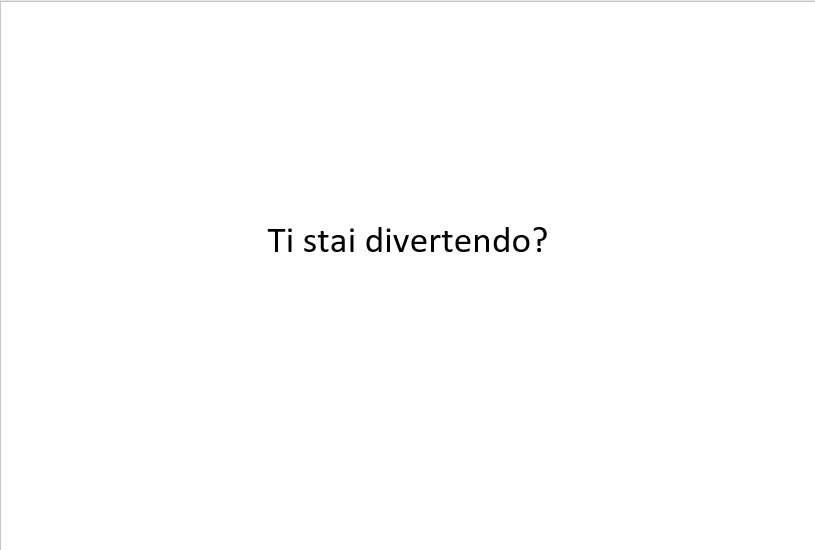
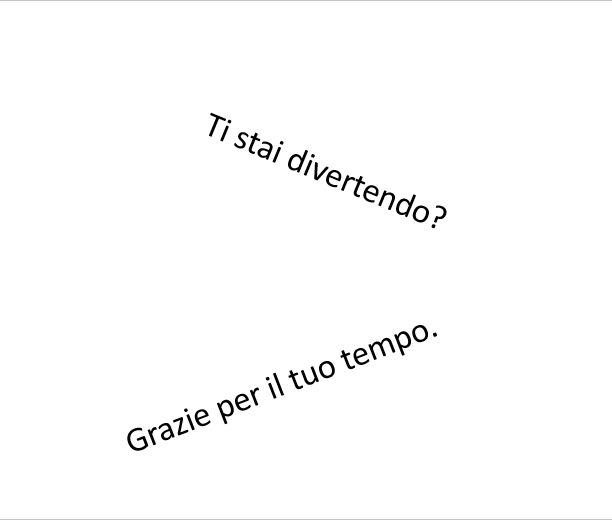
Detect angled text

diff --git a/run_attention_from_image.py b/run_attention_from_image.py
@@ -45,6 +45,7 @@ def maskOrig(fullTxt, k1, k2, all_recog_text, all_orig_text,all_bx, orig ):
     # Translate the merged text
 	textTranslated_mul = translate_sent(fullTxt, encoder, onestepdecoder, inp_lang, targ_lang, max_length_inp, max_length_targ)
 	textTranslated_mul = textTranslated_mul.strip()
+	#print(textTranslated_mul)
     
     # Get the percentages of the recognized text line size
 	percent_size = []
@@ -63,17 +64,18 @@ def maskOrig(fullTxt, k1, k2, all_recog_text, all_orig_text,all_bx, orig ):
 			multi_lines.append(rem_text)
 		rem_text = rem_text[cutLen: ]
     
-	#print(multi_lines)
 	for sub in range(1,len(multi_lines)):
 		if multi_lines[sub][0] != ' ':
 			multi_lines[sub-1] = multi_lines[sub-1] + multi_lines[sub].split(" ")[0]
 			multi_lines[sub] = multi_lines[sub].replace(multi_lines[sub].split(" ")[0],"",1)
-            
+      
     # Move each the splited text to orignal image space
 	for lnNo, tLine in enumerate(multi_lines):
+        
+		tLine = tLine.strip()
                     
         # Get the size of text line
-		(text_width, text_height) = cv2.getTextSize(tLine, cv2.FONT_HERSHEY_COMPLEX_SMALL, 0.9, 1)[0]
+		(text_width, text_height) = cv2.getTextSize(tLine, cv2.FONT_HERSHEY_COMPLEX_SMALL, 1, 1)[0]
         
         # Create three masks of same size of the text line
 		mask = np.zeros((text_height+15, text_width+50), dtype=np.uint8)
@@ -90,25 +92,49 @@ def maskOrig(fullTxt, k1, k2, all_recog_text, all_orig_text,all_bx, orig ):
 		mask2[:,:] = brg[2]
         # Merge the mask values
 		mer_mask = cv2.merge((mask, mask1, mask2))
-		o_startX, o_startY, o_endX, o_endY = all_bx[k1:k2+1][lnNo]
+		o_startX, o_startY, o_endX, o_endY, o_angle, o_an_h = all_bx[k1:k2+1][lnNo]
         
         # Create blank mask of same text recognized shape
 		bnk_masked = cv2.resize(mer_mask, (o_endX-o_startX+2*boundary, o_endY-o_startY+2*boundary))
+		bnk_masked1 = cv2.resize(mer_mask, (o_endX-o_startX+2*boundary, o_endY-o_startY+2*boundary))
 
         # Write the translated text to the mask
 		line_mask = cv2.putText(mer_mask, tLine , (0, 15), cv2.FONT_HERSHEY_COMPLEX_SMALL, 1, (0,0,0), 1, cv2.LINE_AA)
         
         # Resize the mask to the original recognized text size
-		new_y = o_endY-o_startY
-		new_X = math.ceil(((new_y *text_width)/text_height)*0.6)
-		line_mask = cv2.resize(line_mask, (new_X, new_y))
+		if o_angle != 0:
+            # If its a angled text then first resize the masked text to the same size as whole rect around this angled text
+			(h_,w_)=bnk_masked1.shape[:2]
+			o_an_h = math.ceil(o_an_h/2)*2
+			line_mask = cv2.resize(line_mask, (w_-10, o_an_h))
+            # Move the masked text to the rect
+			bnk_masked1[(h_//2)-o_an_h//2:(h_//2)+o_an_h//2, 5:w_-5] = line_mask
+            # Rotate the rect to the opposite direction to the translated text in same angled as in recognized text
+			bnk_masked1_nt = cv2.bitwise_not(bnk_masked1)
+			(h_, w_) = bnk_masked1_nt.shape[:2]
+			center = (w_ // 2, h_ // 2)
+			M = cv2.getRotationMatrix2D(center, -o_angle, 1.0)
+			rotated = cv2.warpAffine(bnk_masked1, M, (w_, h_),flags=cv2.INTER_CUBIC, borderMode=cv2.BORDER_REPLICATE)
 
-        # Replace the original text location with the new translated text
-		try:
-			orig[o_startY-boundary:o_endY+boundary, o_startX-boundary:o_endX+boundary] = bnk_masked						    
-			orig[o_startY:o_endY, o_startX:o_startX+new_X] = line_mask
-		except:
-			continue
+            # Replace the original text location with the new translated text
+			try:
+				orig[o_startY-boundary:o_endY+boundary, o_startX-boundary:o_endX+boundary] = bnk_masked						    
+				orig[o_startY-boundary:o_endY+boundary, o_startX-boundary:o_endX+boundary] = rotated
+            
+			except:
+				continue
+            
+		else:
+            # Replace the original text location with the new translated text
+			line_mask = cv2.resize(line_mask, (o_endX-o_startX, o_endY-o_startY))
+
+			try:
+
+				orig[o_startY-boundary:o_endY+boundary, o_startX-boundary:o_endX+boundary] = bnk_masked		
+				orig[o_startY:o_endY, o_startX:o_endX] = line_mask
+			except:
+
+				continue
 	return orig
 
 
@@ -126,7 +152,7 @@ ind = 0
 
 #while cv2.waitKey(1) < 0:
 #while (cap.isOpened()):
-while (cv2.waitKey(5000) != ord('q') and ind<tot_file):
+while (cv2.waitKey(1000) != ord('q') and ind<tot_file):
 
     
     # read images one by one
@@ -201,44 +227,105 @@ while (cv2.waitKey(5000) != ord('q') and ind<tot_file):
 
 			# compute both the starting and ending (x, y)-coordinates for
 			# the text prediction bounding box
-			endX = int(offsetX + (cos * xData1[x]) + (sin * xData2[x]))
-			endY = int(offsetY - (sin * xData1[x]) + (cos * xData2[x]))
-			startX = int(endX - w)
-			startY = int(endY - h)
-
-			# add the bounding box coordinates and probability score to
-			# our respective lists
-			rects.append((startX, startY, endX, endY))
+			offsetX = offsetX + cos * xData1[x] + sin * xData2[x] 
+			offsetY = offsetY - sin * xData1[x] + cos * xData2[x]                
+        
+			# calculate the UL and LR corners of the bounding rectangle
+			p1x = -cos * w + offsetX
+			p1y = -cos * h + offsetY
+			p3x = -sin * h + offsetX
+			p3y = sin * w + offsetY
+                           
+			# add the bounding box coordinates
+			rects.append((p1x, p1y, p3x, p3y))
+            
 			confidences.append(scoresData[x])
 
     # Get the boundaries where word may present
 	boxes = non_max_suppression(np.array(rects), probs=confidences)
 	boxes = sorted(boxes, key=lambda x: (x[3],x[2]))
 	bx = []
+	bx_angle = []
     
     # Go through each boxes and find the merge boxes in same line 
     # This is to translate a whole sentence instead of single single words
-    # Note this works only when our sentences are in a horizontal line
 	for i,(startX, startY, endX, endY) in enumerate(boxes):
-		if i==0 and startY<endY :
-			sX = startX
-			sY = startY
-			eX = endX
-			eY = endY
-			bx.append([sX,sY,eX,eY])
-			continue
-		if endY-eY < 20:
-			sX = min(startX,sX)
-			sY = max(startY,sY)
-			eX = max(endX,eX)
-			eY = endY
-			bx[-1] = [sX,sY,eX,eY]
+        
+		s_X = int(startX * rW)
+		s_Y = int(startY * rH)
+		e_X = int(endX * rW)
+		e_Y = int(endY * rH)
+
+		boundary = 2
+        # Get the text area
+		if s_Y>10 and s_X>10:
+			text = orig[s_Y-5*boundary:e_Y+5*boundary, s_X-5*boundary:e_X+5*boundary]
 		else:
-			sX = startX
-			sY = startY
-			eX = endX
-			eY = endY
-			bx.append([sX,sY,eX,eY])
+			text = orig[s_Y-boundary:e_Y+boundary, s_X-boundary:e_X+boundary]            
+		if (text.astype(np.uint8)).size == 0:           
+			continue
+
+		text_img = cv2.cvtColor(text.astype(np.uint8), cv2.COLOR_BGR2GRAY)
+        # Check if the text is in angled
+		text_img_nt = cv2.bitwise_not(text_img)
+		thresh = cv2.threshold(text_img_nt, 0, 255,cv2.THRESH_BINARY | cv2.THRESH_OTSU)[1]
+		coords = np.column_stack(np.where(thresh > 0))
+		angle = cv2.minAreaRect(coords)[-1]
+        # Get the angle
+		if angle < -45:
+		    angle = -(90 + angle)
+		else:
+		    angle = -angle        
+        
+        # If text angle is within 5 to -5 --> it is horizontal line
+		if angle < 5 and angle > -5:
+			ag = 0
+			ah = 0
+			if len(bx)==0 :
+				sX = startX
+				sY = startY
+				eX = endX
+				eY = endY
+				bx.append([sX,sY,eX,eY,ag,ah])
+				continue
+			if endY-eY < 20:
+				sX = min(startX,sX)
+				sY = max(startY,sY)
+				eX = max(endX,eX)
+				eY = endY
+				bx[-1] = [sX,sY,eX,eY,ag,ah]
+			else:
+				sX = startX
+				sY = startY
+				eX = endX
+				eY = endY
+				bx.append([sX,sY,eX,eY,ag,ah])
+		else:
+			# It is a angled text
+            # Store all angled texts, if two texts are in same angled then merge them in bx_angle
+			updflag = False
+			if len(bx_angle)==0:
+				bx_angle.append([startX,startY,endX,endY,angle, abs(startY-endY)])
+				continue
+			for ibn, an in enumerate(bx_angle):
+				if abs(angle-an[4]) < 12:
+					sXa = min(an[0], startX)
+					sYa = min(an[1], startY)
+					eXa = max(an[2], endX)
+					eYa = max(an[3], endY)
+					bx_angle[ibn] = [sXa,sYa,eXa,eYa,angle, abs(startY-endY)]
+					updflag = True
+					continue
+            
+			if not (updflag):
+				bx_angle.append([startX,startY,endX,endY,angle, abs(startY-endY)])
+      
+    # Move all angled text to bx list              
+	for an in bx_angle:  
+		if an[4] > 0:
+			bx.append([an[0]-3*boundary,an[1]-10*boundary,an[2]+3*boundary,an[3]+10*boundary,an[4],an[5]+13*boundary])
+		else:
+			bx.append([an[0]-3*boundary,an[1]-3*boundary,an[2]+3*boundary,an[3]+3*boundary,an[4],an[5]+3*boundary])
     
 	text_recog = []
 	text_pos = []
@@ -247,31 +334,47 @@ while (cv2.waitKey(5000) != ord('q') and ind<tot_file):
 	all_orig_text = []
 	all_bx = []
     # Loop through each boxes (1 box == text present in a single line)
-	for k, (startX, startY, endX, endY) in enumerate(bx):
+	for k, (startX, startY, endX, endY, angle, an_h) in enumerate(bx):
 
 		startX = int(startX * rW)
 		startY = int(startY * rH)
 		endX = int(endX * rW)
 		endY = int(endY * rH)
 		boundary = 2
-		text = orig2[startY-boundary:endY+boundary, startX-boundary:endX+boundary]
-        
+		# If angled text then crop with extra boundaries,
+		if angle!=0:
+			text = orig[startY-2*boundary:endY+2*boundary, startX-2*boundary:endX+2*boundary]
+		else:
+			text = orig[startY-boundary:endY+boundary, startX-boundary:endX+boundary]  
+
 		if (text.astype(np.uint8)).size == 0:
 			continue
 
-        # convert the BGR image to gray 
 		text_img = cv2.cvtColor(text.astype(np.uint8), cv2.COLOR_BGR2GRAY)
 		
 		# Extract text from the box location
 		config='-l eng --oem 1 --psm 3'
-		textRecognized = pytesseract.image_to_string(text_img, config = config, lang ='eng')
+        
+        # If angled text then first rotate the text to its angled then use tesseract on it
+        # else directly use tesseract
+		if angle != 0:
+			text_img_nt = cv2.bitwise_not(text_img)
+			(h_, w_) = text_img_nt.shape[:2]
+			center = (w_ // 2, h_ // 2)
+			M = cv2.getRotationMatrix2D(center, angle, 1.0)
+			rotated = cv2.warpAffine(text_img, M, (w_, h_),flags=cv2.INTER_CUBIC, borderMode=cv2.BORDER_REPLICATE)
+			textRecognized = pytesseract.image_to_string(rotated, config = config, lang ='eng')           
+		else:
+			textRecognized = pytesseract.image_to_string(text_img, config = config, lang ='eng')
+            
 		textRecognized = textRecognized.strip()  
         
         # Store each recognized text and their dimentions in list
 		if (textRecognized):
+			#print(textRecognized)
 			all_recog_text.append(textRecognized)  
 			all_orig_text.append(text)
-			all_bx.append((startX, startY, endX, endY))
+			all_bx.append((startX, startY, endX, endY, angle, an_h))
     
 	prek = 0
     # For all recognised text, check if multi line exist and process accordinly
@@ -326,7 +429,7 @@ while (cv2.waitKey(5000) != ord('q') and ind<tot_file):
 	orig = cv2.resize(orig, (500, 320))
 	cv2.imshow("Original text", image)
 	cv2.imshow("Transalated text", orig)
-	k = cv2.waitKey(30) & 0xff
+	k = cv2.waitKey(30000) & 0xff
 	if k == 27:    
 		break
 

diff --git a/attention_model.py b/attention_model.py
@@ -202,8 +202,10 @@ def predict_att(input_sentence, encoder, one_Step_Decoder,inp_lang, targ_lang, m
 
   return result, input_sentence, attention_plot
   
+# Define function to translate the input text
 def translate_sent(ita_sent, encoder,onestepdecoder,inp_lang, targ_lang, max_length_inp, max_length_targ):
     
+    # If multiple sentence sent as input, split it and process separately
     ita_sent = re.sub(r"(?<!\w\.\w.)(?<![A-Z][a-z]\.)(?<=\.|\?)\s","\n",ita_sent)
     final_res = ''
     for inp in ita_sent.split("\n"):
@@ -229,6 +231,7 @@ def translate_sent(ita_sent, encoder,onestepdecoder,inp_lang, targ_lang, max_len
     final_res = final_res.strip()
     return final_res
 
+# Get the background color of a text
 class GetBGColor():
     def __init__(self, img):
         self.img = img
@@ -236,6 +239,7 @@ class GetBGColor():
         self.w, self.h, self.channels = self.img.shape
         self.total_pixels = self.w*self.h
 
+    # get the count of BGR for each pixel
     def count(self):
         for y in range(0, self.h):
             for x in range(0, self.w):
@@ -245,6 +249,7 @@ class GetBGColor():
                 else:
                     self.manual_count[BGR] = 1
     
+    # Get the average color if most color probability is less than 0.5
     def average_colour(self):
         r = 0
         g = 0
@@ -256,6 +261,7 @@ class GetBGColor():
             r += self.number_counter[top][0][2]
         return (b/sample, g/sample, r/sample)
 
+    # Find the most probable color
     def detect(self):
         self.count()
         self.number_counter = Counter(self.manual_count).most_common(20)
